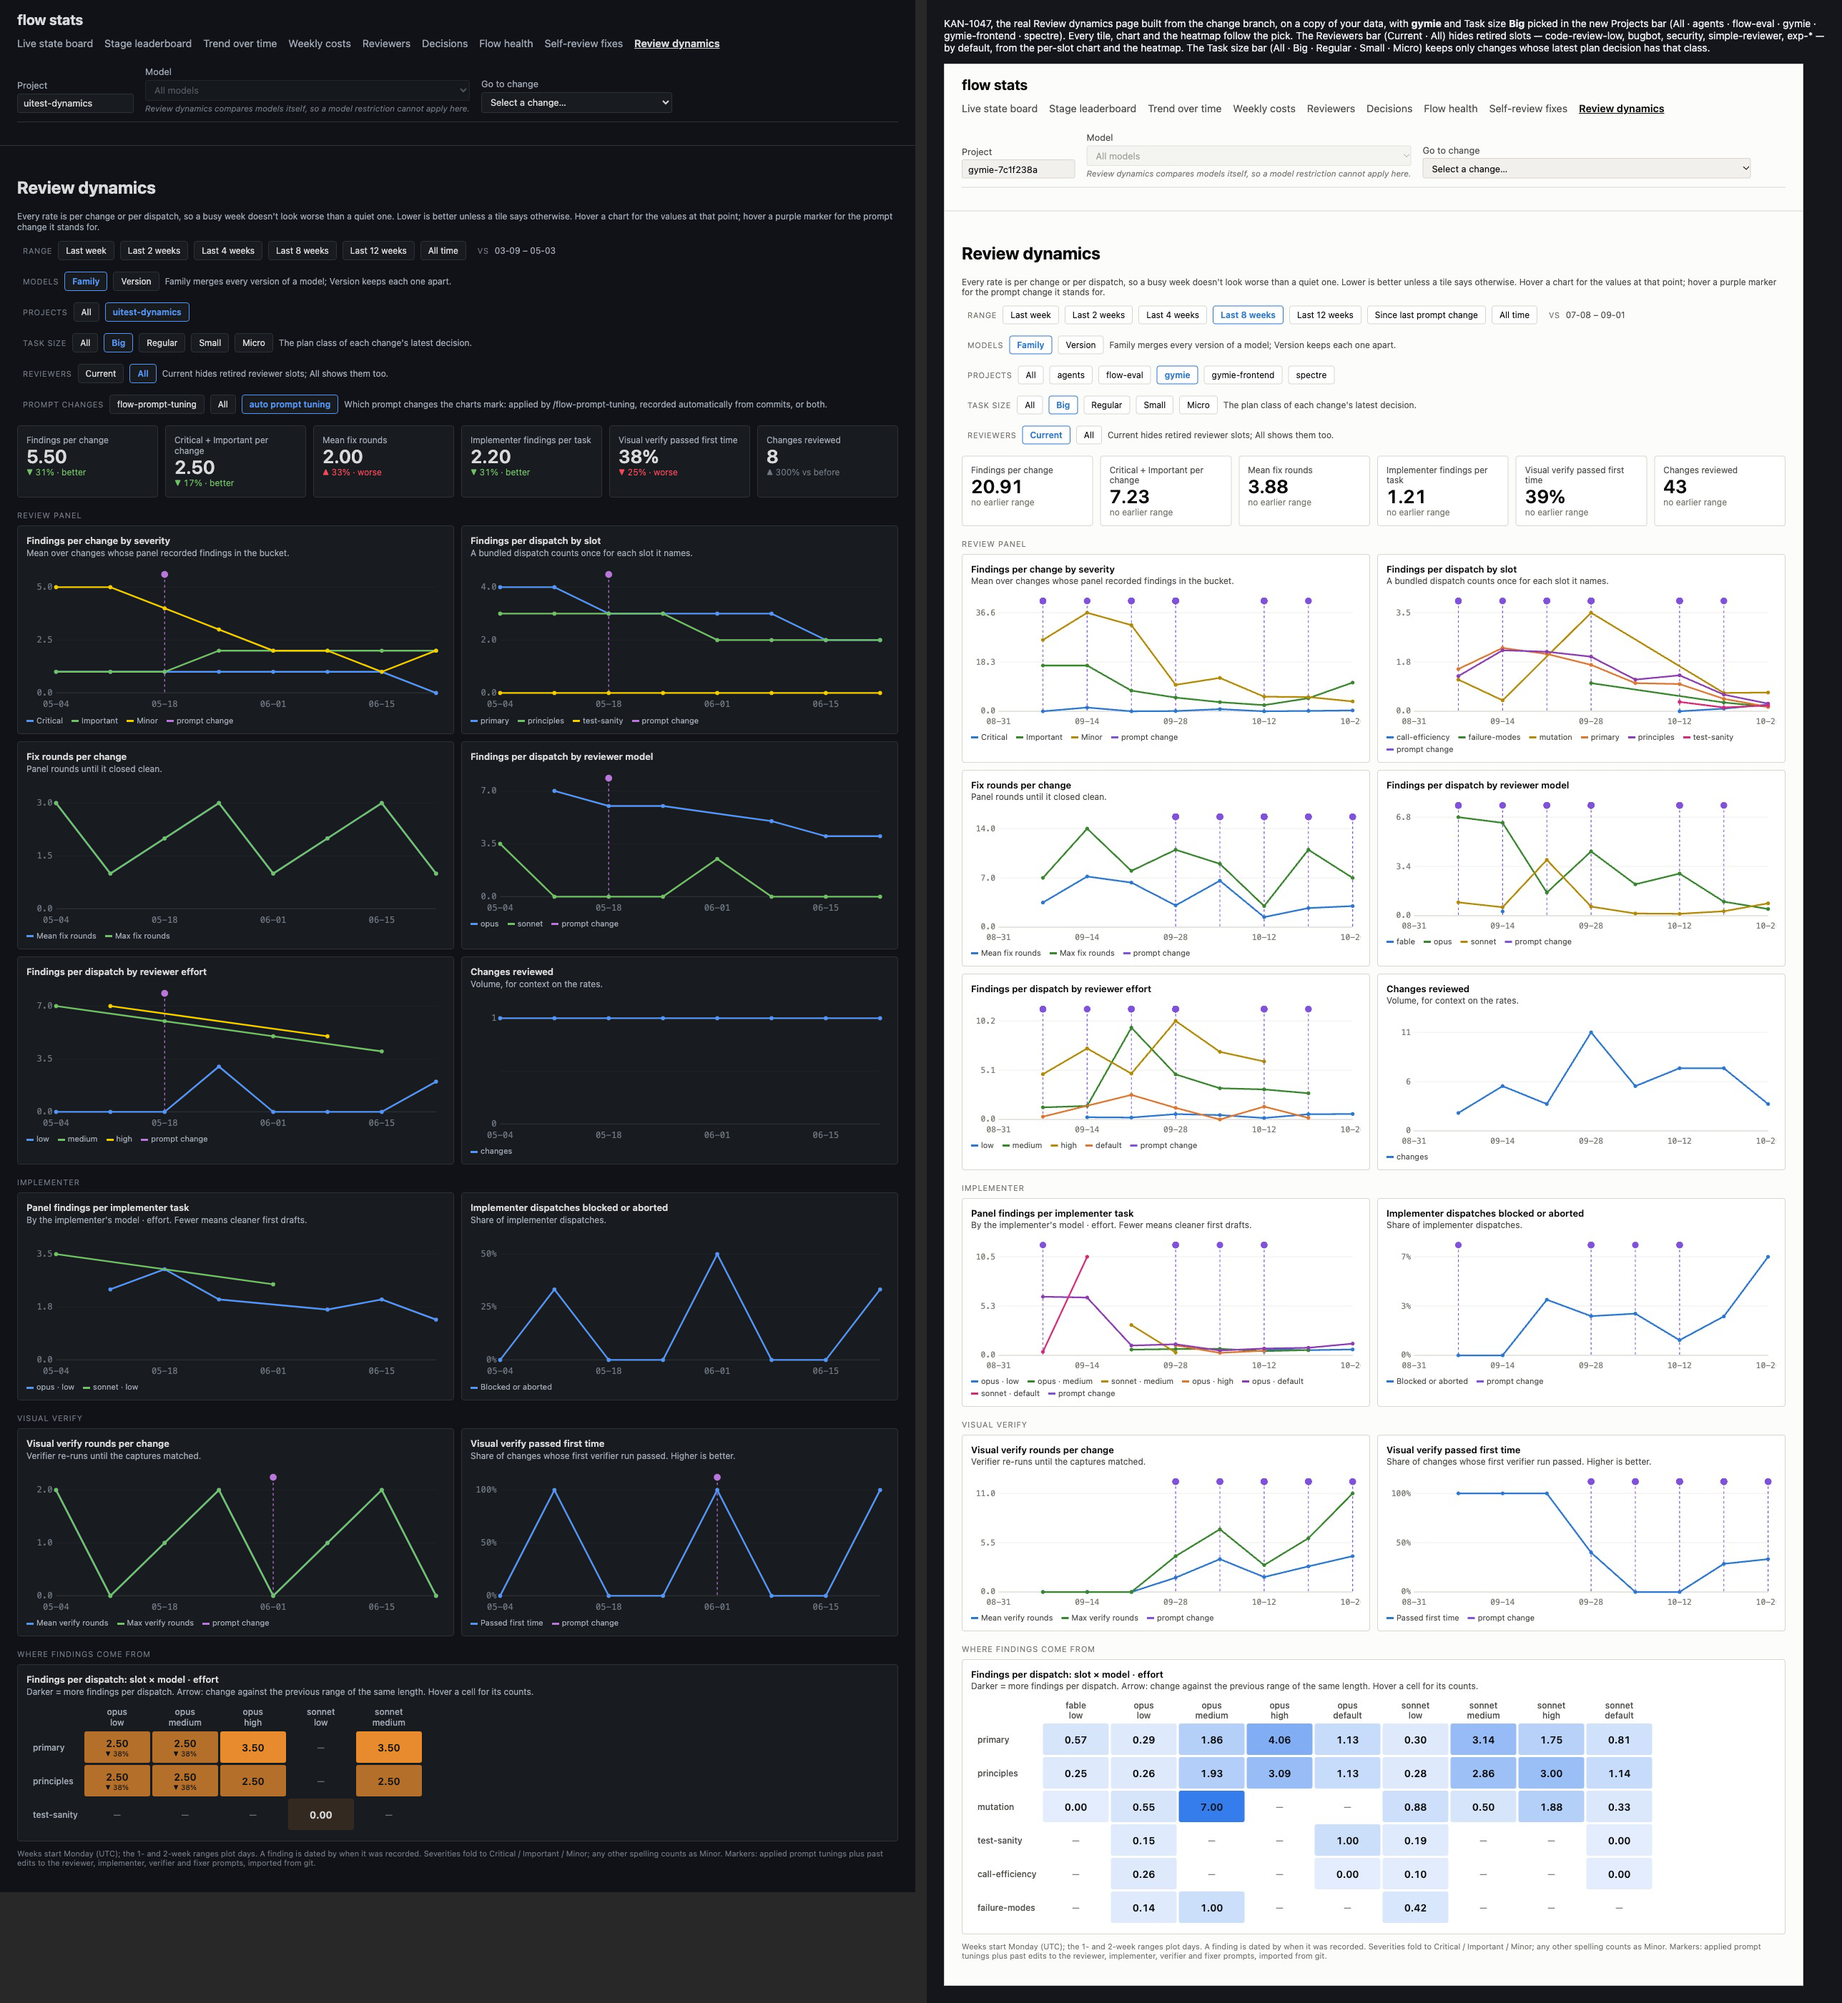
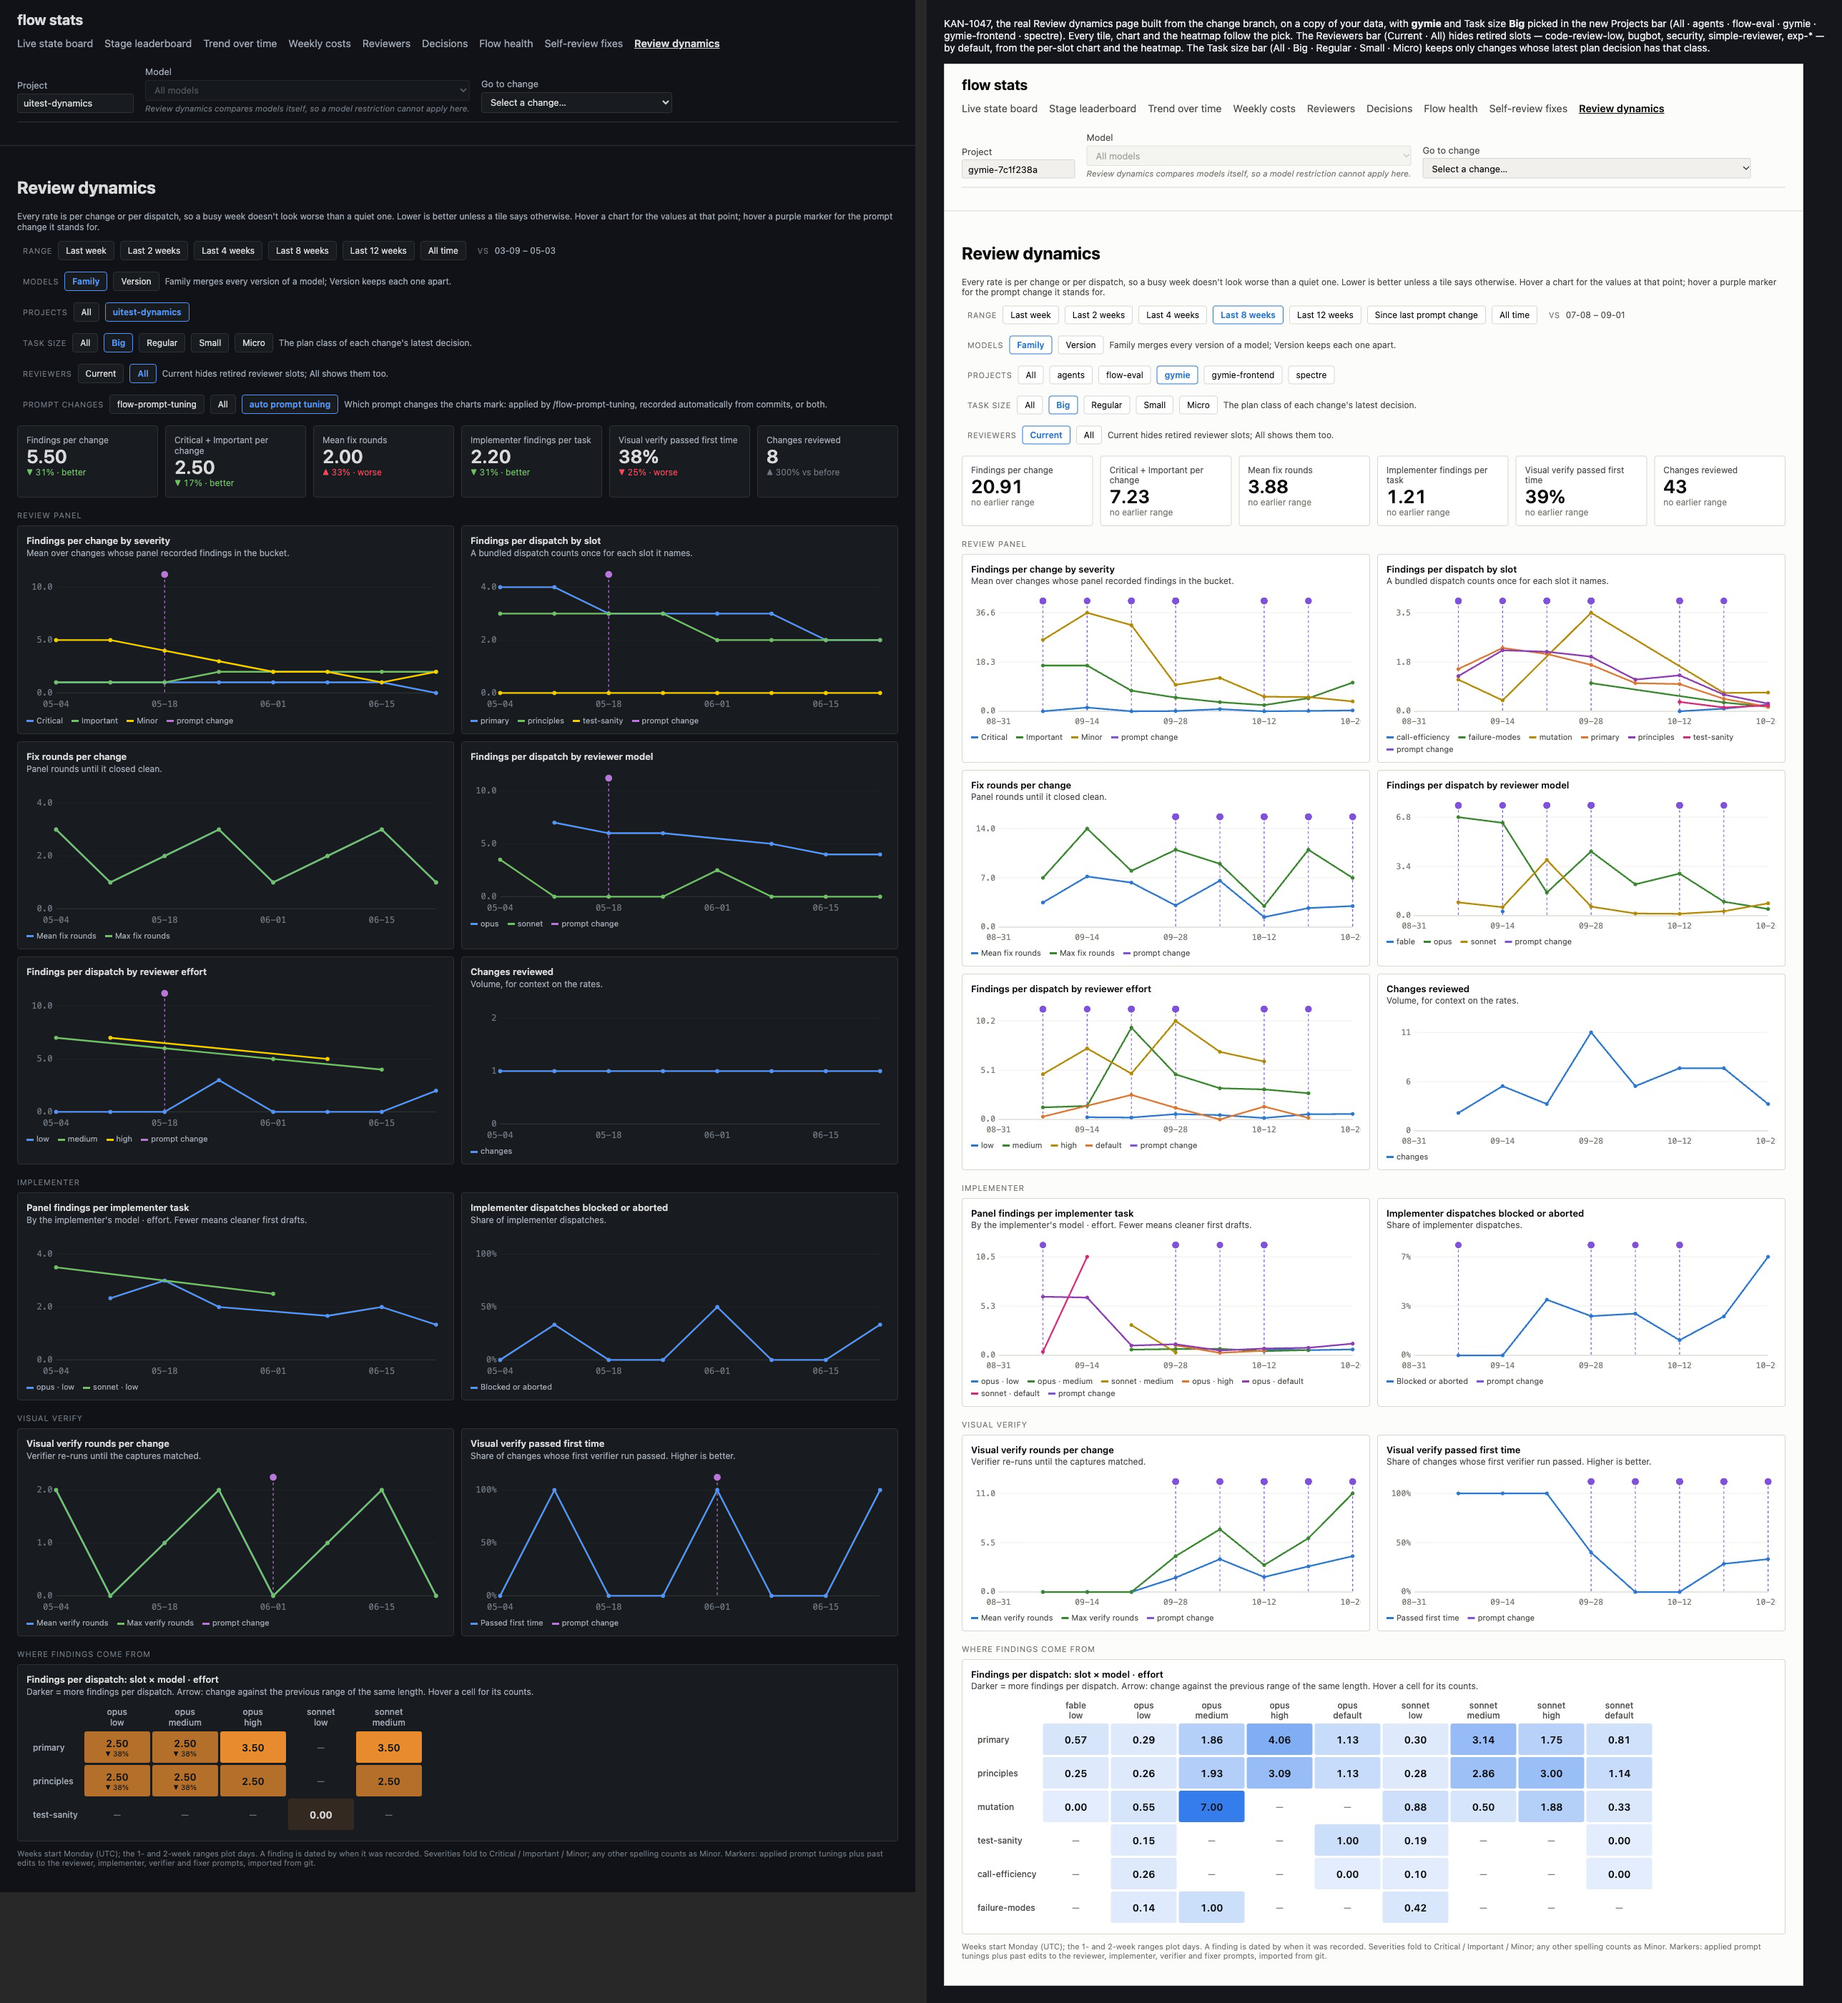
chore(spectre): plan kan-1047-review-dynamics-heatmap-by-project

diff --git a/spectre/changes/archive/kan-1047-review-dynamics-heatmap-by-project/tasks.md b/spectre/changes/archive/kan-1047-review-dynamics-heatmap-by-project/tasks.md
@@ -3,6 +3,7 @@
 > **Execution:** `/flow` implements this plan. Mark a task's own checkbox when
 > `check-task-commit-fields.sh` passes on that task's commit.
 > **Relocation:** no
+> **Tasks appended:** 1
 > **Baseline convention:** every `**Baseline:** before=N after=M` is chain-position absolutes —
 > `before` is the count at this task's commit's parent and `after` at the commit, split by source
 > set, counted by a word-boundary-safe counter, with any `measured:` command naming no ref of its own.
@@ -94,3 +95,15 @@ Correction (2026-10-28): the plan declared `stats/web/tests/visual/full-app-suit
 **Regression:** the vitest fails — an integer axis peaking at 1 labels two ticks `1`.
 **Commit:** fix(stats): drop a repeated axis label on small integer review dynamics charts
 **After:** Task 5
+
+- [x] 7. Fix run 1 — y-axis tick labels name values other than the ones they sit at
+  - [x] **Step 1: Test.** vitest `dynamics chart labels each tick with the value it sits at` renders `DynamicsChart` with an integer format over values peaking at 0, 1, 3 and 5 and asserts the y labels read `0, 1, 2`, `0, 1, 2`, `0, 2, 4` and `0, 5, 10` bottom to top; it replaces Task 6's vitest `dynamics chart drops a tick whose label repeats the one above` (no design decision covers the blank tick; that test locked in the mislabel).
+  - [x] **Step 2: Chart.** `DynamicsChart` draws three ticks `0, s, 2s`, `s` the smallest 1·2·5×10^k step with `2s >= peak` whose three labels `format(0)`, `format(s)`, `format(2s)` are distinct (panel round 6 F20: a half-only floor let `toFixed(1)` at peak 0.06 read `0.0, 0.1, 0.1`; whole-valued shares stay at 0%·50%·100%), 1 when the peak is 0; the y scale tops at `2s × 1.12`; the repeated-label blanking is removed.
+  - [x] **Step 3: Capture.** `capture` for `review-dynamics.spec.ts` and the full app suite with `--update-snapshots=all`, every changed PNG read, zip rebuilt when it moves, `visual-verification.md` updated; `npm run test:visual` and the vitest exit 0. Commit.
+
+**Build:** green
+**Files:** `stats/web/src/components/DynamicsChart.tsx`, `stats/web/src/views/views.test.tsx`, `stats/web/tests/visual/review-dynamics.spec.ts-snapshots/review-dynamics-darwin.png`, `stats/web/tests/visual/review-dynamics.spec.ts-snapshots/review-dynamics-default-preset-darwin.png`, `stats/web/tests/visual/review-dynamics.spec.ts-snapshots/review-dynamics-filters-darwin.png`, `stats/web/tests/visual/review-dynamics.spec.ts-snapshots/review-dynamics-heat-hover-darwin.png`, `stats/web/tests/visual/review-dynamics.spec.ts-snapshots/review-dynamics-hover-darwin.png`, `stats/web/tests/visual/review-dynamics.spec.ts-snapshots/review-dynamics-light-darwin.png`, `stats/web/tests/visual/review-dynamics.spec.ts-snapshots/review-dynamics-picked-darwin.png`, `stats/web/tests/visual/review-dynamics.spec.ts-snapshots/review-dynamics-version-darwin.png`, `stats/web/tests/visual/full-app-suite.spec.ts-snapshots/full-review-dynamics-darwin.png`, `stats/web/tests/visual/full-app-suite.zip`, `spectre/changes/archive/kan-1047-review-dynamics-heatmap-by-project/visual-verification.md`
+**Tests:** `dynamics chart labels each tick with the value it sits at`
+**Regression:** the vitest fails — a tick labelled `2` sits at 1.5, or a peak of 0 leaves its axis line unlabelled.
+**Commit:** fix(stats): label review dynamics y ticks with the values they sit at
+**After:** Task 6

diff --git a/spectre/changes/archive/kan-1047-review-dynamics-heatmap-by-project/narrative.md b/spectre/changes/archive/kan-1047-review-dynamics-heatmap-by-project/narrative.md
@@ -16,3 +16,15 @@
 - Chained from the implementation run (no review-before-landing). `prepare` passed the unfinished-work and visual gates first time; the base had not moved since the round-3 rebase onto the landed pipeline fix.
 
 In-run pipeline fix: 69938fe7946f3b09fb96e63d15f2fb4fe293eec1 — a missed fix-mutation row could never be recorded once its round re-review began, deadlocking the panel close (blast radius 3 files)
+
+## 2026-10-28 — fix run 1
+
+- The self-review pass of the second integrate run found a product defect (the sweep): Review dynamics y-axis labels named rounded values other than the ones their ticks sat at — peak 3 drew `2` at 1.5, an empty chart left its axis line unlabelled, and Task 6's blank-label fix had locked the mislabel into a test. Appended as Task 7 (archived change, append taken); re-decided `small`→`regular`, same roster.
+- Implemented inline: ticks `0, s, 2s` on a 1·2·5 step. A first rule (whole steps for whole-number data) put a 200% tick on a 0/1 share chart and was replaced, before review, by a floor read off the format.
+- Panel round 6 (small append: primary + the two extras): primary F20 (Important) — the half-only floor still let `toFixed(1)` at peak 0.06 read `0.0, 0.1, 0.1`; mutation F21–F24 — four surviving mutants. Fixed by picking the smallest step whose three labels the format tells apart; four flips mutation-proved, rows recorded `-late` (proved before the re-review, recorded after it). Round-6's mutation slot left a live mutant (`2 * s * 1.12` → `2 * s`) in the canonical worktree instead of a throwaway copy; the parent restored it before fixing.
+- Round 7 re-review (sonnet): clean of Critical/Important; Minors F25 (an all-zero share chart topped at 200%) and F26 (dead `+ 1e-9`) fixed inline.
+- Visual verify `visual-verify-fix-4-full` at 83059f85: no departures; every y label sits on its gridline.
+
+## 2026-10-28 — integrate run
+
+- Second integrate run (bare `/flow kan-1047`): `prepare` found the change archived without new work, gates green, base unmoved, route merge and push from the project default. The self-review pass stopped on the product defect above and the run went into fix run 1.

diff --git a/spectre/changes/archive/kan-1047-review-dynamics-heatmap-by-project/visual-verification.md b/spectre/changes/archive/kan-1047-review-dynamics-heatmap-by-project/visual-verification.md
@@ -50,3 +50,12 @@ none named.
 
 ### Other views
 - `review-dynamics`, `-filters`, `-hover` captures (evidence/) byte-identical to HEAD's baselines; `review-dynamics-darwin.png` and `review-dynamics-heat-hover-darwin.png` are byte-identical — the heat-cell hover is a native `title` tooltip with no page ink.
+
+## Fix run 1 (Task 7)
+- Every Review dynamics y axis now draws ticks `0, s, 2s` on a 1·2·5 step, whole when the format cannot show a half, each label at the height of the value it names (vitest `dynamics chart labels each tick with the value it sits at`). Picked state: "Changes reviewed" reads `0`, `1`, `2` with the line on `1`; "Visual verify passed first time" tops at `100%`; findings charts read e.g. `0.0`, `5.0`, `10.0`. Every `review-dynamics-*` baseline, `full-review-dynamics-darwin.png` and the full-app-suite zip were recaptured and read; `npm run test:visual`: 67 passed.
+
+## Round visual-verify-fix-4-full (HEAD 83059f85)
+
+- review-dynamics-picked: `visual-verification/evidence/review-dynamics-picked-darwin.png` — every DynamicsChart y axis labels the value its gridline sits at: "Changes reviewed" 0/1/2 with the series on the 1 gridline; "Visual verify passed first time" 0%/50%/100%; "Implementer dispatches blocked or aborted" 0%/50%/100%; count charts on 1·2·5 steps (0/5/10, 0/2/4, 0/1/2). No duplicate or blank tick. Pointer parked, no hover ink.
+- Composite `visual-verification/review-dynamics-picked.png` against prototype frame `review-dynamics`, diff=n/a (frame 1280x2802 with annotation wrapper vs capture 1280x2647). Bands 1/1 paired, height −155px, colour distance 6.9 — cause: the prototype's annotation wrapper, outside the app's ink. Seams, rows, ink and matrix n/a as in round fix-3 for the same cause; matrix `visual-verification/matrix/review-dynamics-picked.json`.
+- Departures: none.

diff --git a/spectre/changes/archive/kan-1047-review-dynamics-heatmap-by-project/proposal.md b/spectre/changes/archive/kan-1047-review-dynamics-heatmap-by-project/proposal.md
@@ -11,3 +11,4 @@
 - **Task size** bar: `All · Big · Regular · Small · Micro`. Filters the whole page to changes whose latest recorded decision has that plan class (`class` query parameter, review-dynamics only).
 - **Reviewers** bar: `Current` (default) hides retired slots from the per-slot chart and the heatmap; `All` shows them.
 - The page opens on **Last 4 weeks** (was Last 8 weeks). Defaults: Last 4 weeks, Family, All, All, Current.
+- Fix run 1: every Review dynamics y-axis label names the value its tick sits at — ticks run `0, s, 2s` on a 1·2·5 step, whole numbers only for whole-number data (peak 3 drew `2` at 1.5; an empty chart left its axis line unlabelled).
